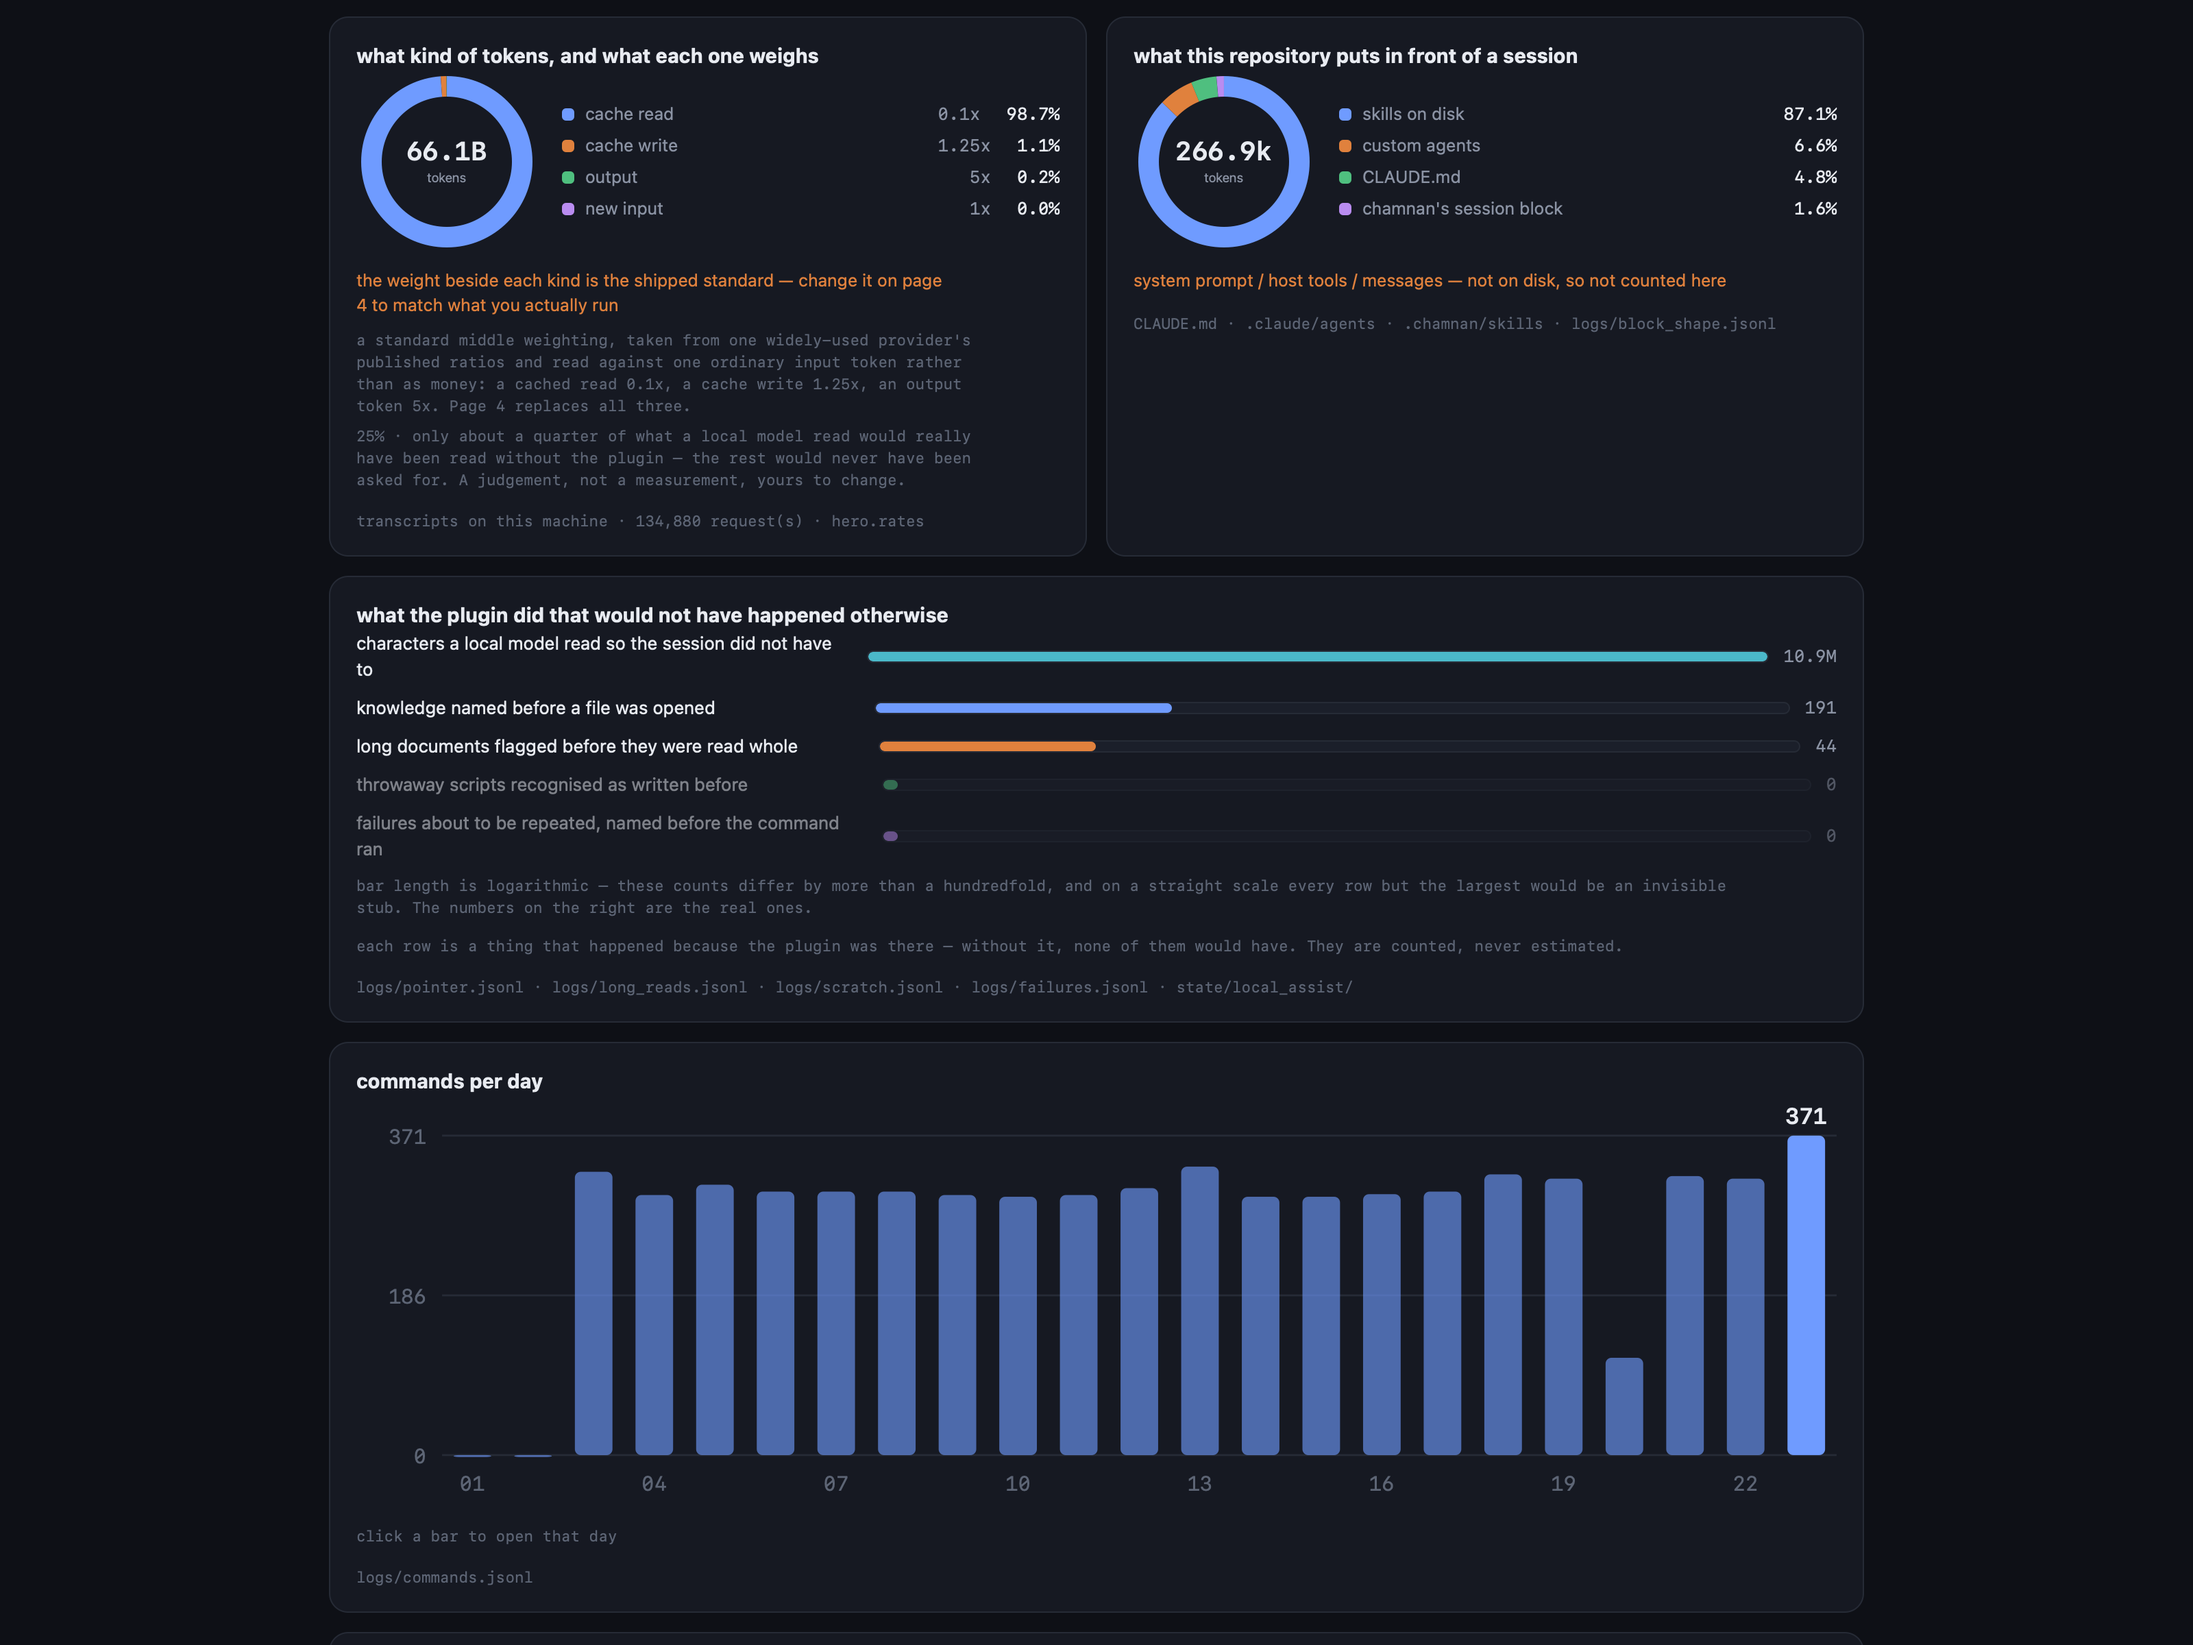
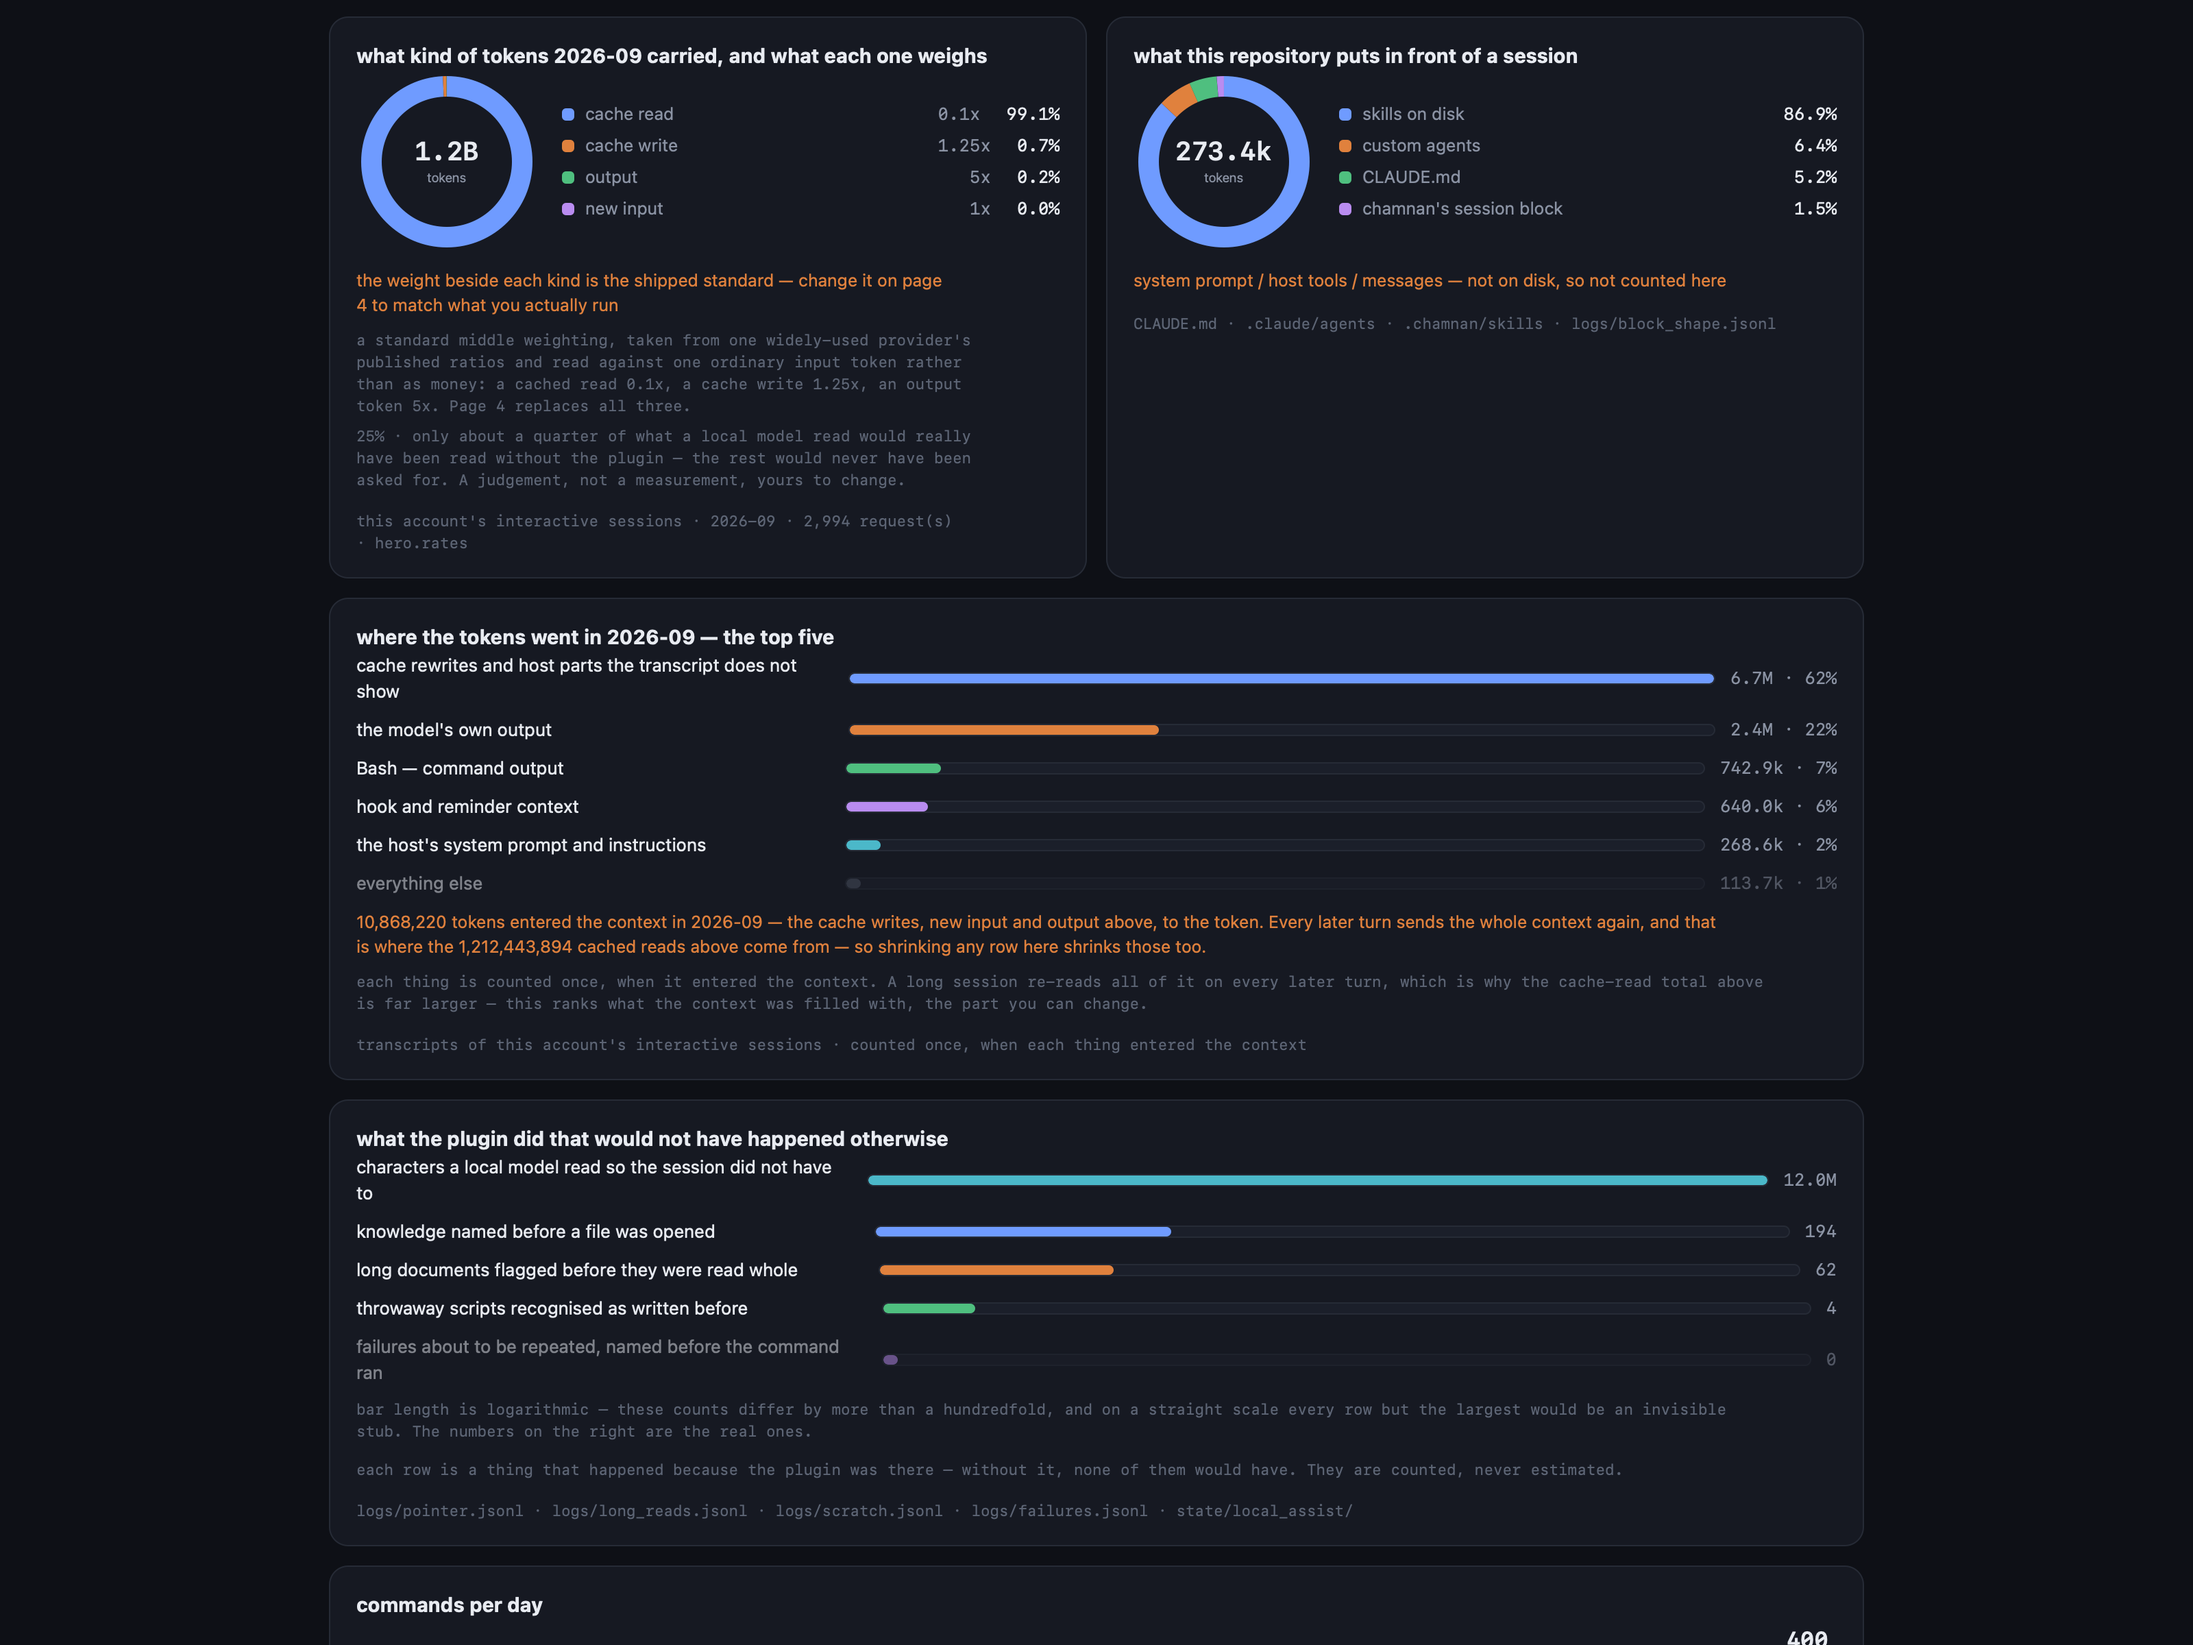
Recapture the dashboard images for the fixes since 1.31.1
The dashboard counted every token about twice, read only the root's sessions, and put a
lifetime donut beside a one-month hero; the first page also gained the top-five panel. All seven
images are recaptured from the rebuilt page with Scraper/shot at the same frames as before, and
the second image's caption now names the new panel. Checked against the published set: the
same file-name rows appear in both, so nothing new is exposed.

Claude-Session: https://claude.ai/code/session_01PCqB7nwKKF9YXkY6GBdySL

diff --git a/README.md b/README.md
@@ -620,7 +620,7 @@ own numbers.
 
 | | |
 |---|---|
-| <img src="docs/dashboard/2-token-kinds.png" width="100%"> | **What each kind of token weighs.** A cached read is not an input token and pretending otherwise is how every published ratio in this space gets inflated |
+| <img src="docs/dashboard/2-token-kinds.png" width="100%"> | **What each kind of token weighs, and where the tokens went.** A cached read is not an input token and pretending otherwise is how every published ratio in this space gets inflated. Below it, the top five things that filled the context in the chosen period — including the cache rewrites a transcript never shows — adding up to what was actually written |
 | <img src="docs/dashboard/3-features-firing.png" width="100%"> | **Which features actually fire**, counted, with the zeros left in. A feature that has never fired on your repository is the most useful row on the page |
 | <img src="docs/dashboard/4-gate-finds.png" width="100%"> | **What the gate finds**, over time |
 | <img src="docs/dashboard/5-file-types.png" width="100%"> | **What is in the tree**, by type — the long tail is where a reader quietly drops files |
